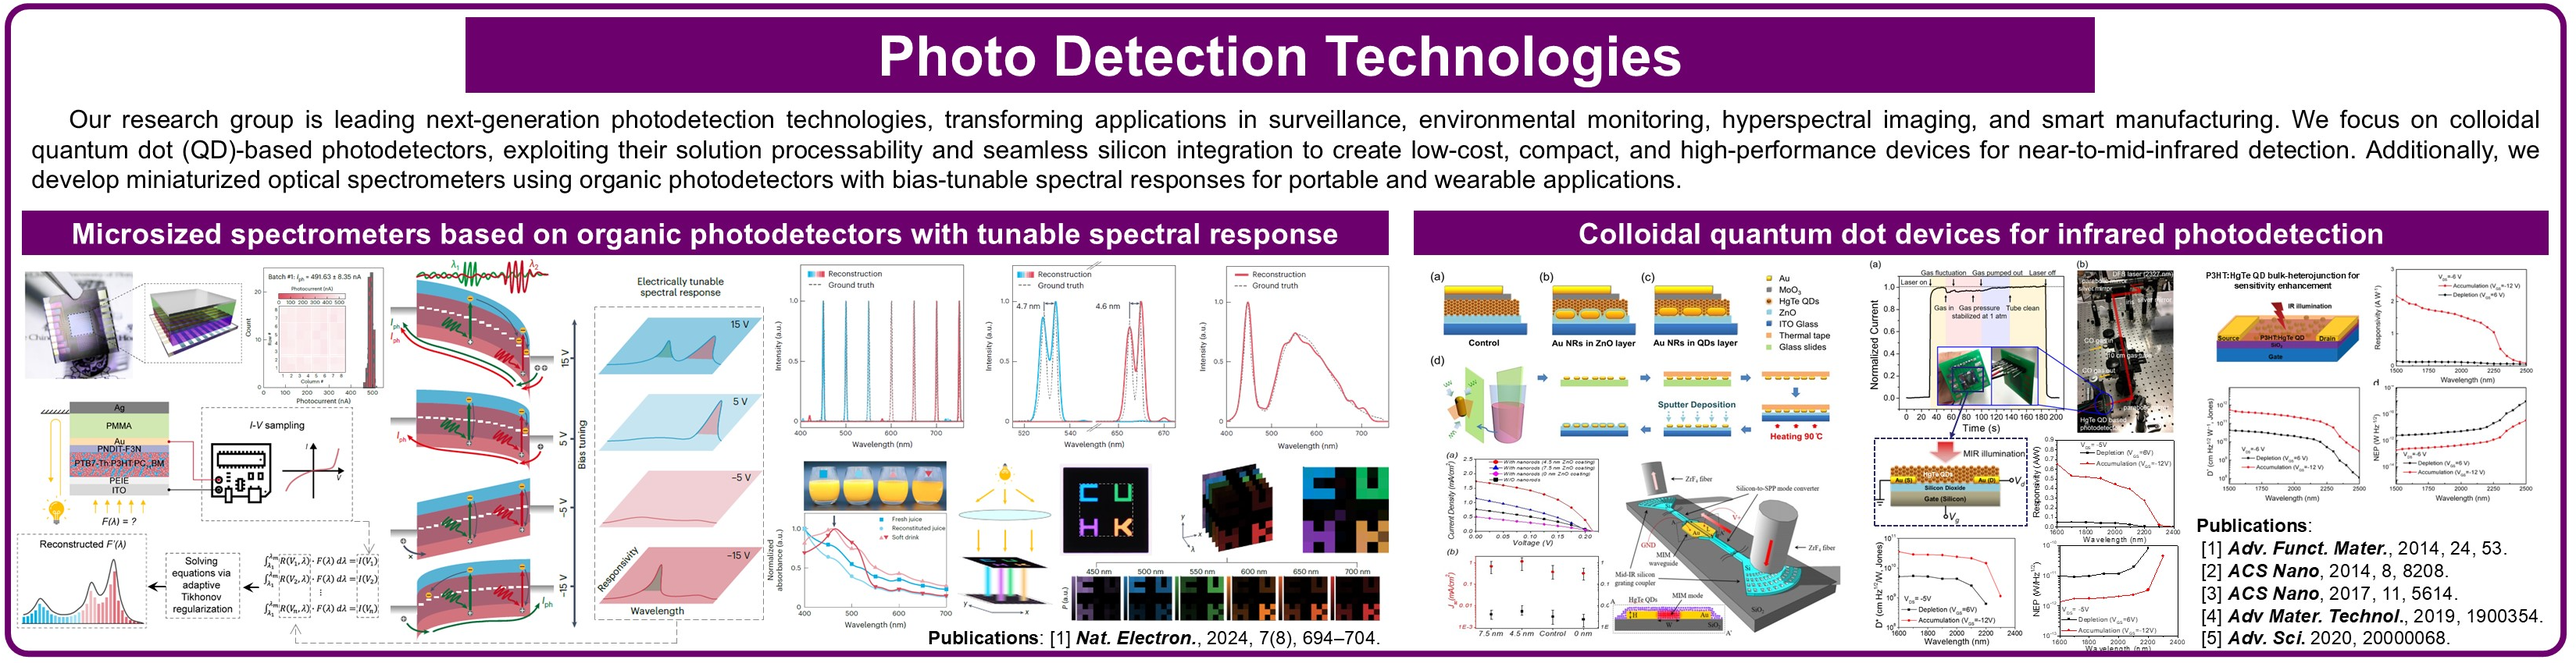
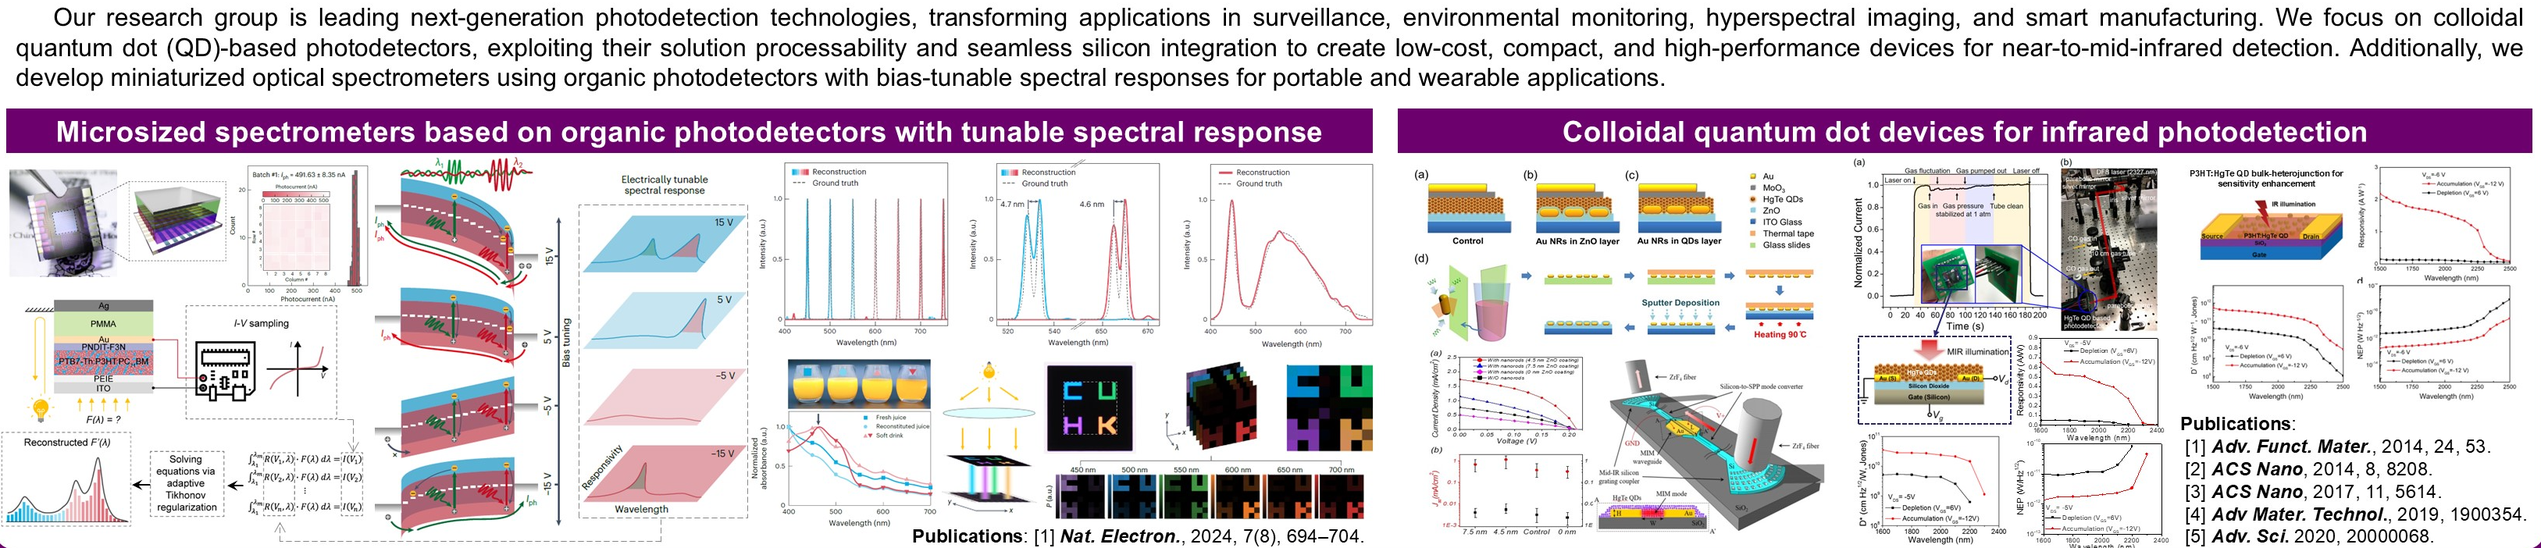
update poster

diff --git a/src/components/Research.js b/src/components/Research.js
@@ -50,12 +50,99 @@ export default class Research extends Component {
                             </ul>
                         </div>
                     </div>
-                        <div style={{display: 'flex', justifyContent: 'center', alignItems: 'center', gap: '16px', marginTop: '24px', flexWrap: 'wrap', flexDirection: 'column'}}>
-                            <img src="/img/poster/1.png" alt="poster1" style={{maxWidth: '80%', height: 'auto'}} />
-                            <img src="/img/poster/2.png" alt="poster2" style={{maxWidth: '80%', height: 'auto'}} />
-                            <img src="/img/poster/3.png" alt="poster3" style={{maxWidth: '80%', height: 'auto'}} />
-                            <img src="/img/poster/4.png" alt="poster4" style={{maxWidth: '80%', height: 'auto'}} />
+
+                <div
+                    style={{
+                        display: "flex",
+                        justifyContent: "center",
+                        alignItems: "center",
+                        gap: "16px",
+                        marginTop: "24px",
+                        flexWrap: "wrap",
+                        flexDirection: "column"
+                    }}
+                >
+                    {[
+                        {
+                            src: "/img/poster/1.png",
+                            alt: "poster1",
+                            title: "Photodetection Technologies"
+                        },
+                        {
+                            src: "/img/poster/2.png",
+                            alt: "poster2",
+                            title: "Biomedical Sensing Technologies"
+                        },
+                        {
+                            src: "/img/poster/3.png",
+                            alt: "poster3",
+                            title: "Organometal Halide Perovskite-based Optoelectronic and Photonic Devices"
+                        },
+                        {
+                            src: "/img/poster/4.png",
+                            alt: "poster4",
+                            title: "Organic Electrochemical Transceiver-based Therapeutic Wearables"
+                        }
+                    ].map((p) => (
+                        <div
+                            key={p.src}
+                            style={{
+                                width: "100%",
+                                display: "flex",
+                                justifyContent: "center"
+                            }}
+                        >
+                            <div
+                                style={{
+                                    width: "min(80%, 980px)",
+                                    border: "2px solid #6c006d",
+                                    borderRadius: "18px",
+                                    padding: "16px",
+                                    background: "rgba(255, 255, 255, 0.99)",
+                                    boxShadow: "0 12px 28px rgba(43, 10, 74, 0.03)"
+                                }}
+                            >
+                                <div
+                                    style={{
+                                        width: "100%",
+                                        display: "flex",
+                                        justifyContent: "center",
+                                        marginBottom: "11px"
+                                    }}
+                                >
+                                    <div
+                                        style={{
+                                            display: "inline-block",
+                                            padding: "10px 18px",
+                                            borderRadius: "12px",
+                                            fontFamily: "Roboto, system-ui, -apple-system, Segoe UI, Arial",
+                                            fontWeight: 800,
+                                            letterSpacing: "0.6px",
+                                            fontSize: "20px",
+                                            lineHeight: 1.2,
+                                            color: "#ffffff",
+                                            background: "linear-gradient(90deg, #6c006d 0%, #6c006d 100%)",
+                                            textAlign: "center"
+                                        }}
+                                    >
+                                        {p.title}
+                                    </div>
+                                </div>
+
+                                <img
+                                    src={p.src}
+                                    alt={p.alt}
+                                    style={{
+                                        width: "100%",
+                                        height: "auto",
+                                        display: "block",
+                                        borderRadius: "12px"
+                                    }}
+                                />
+                            </div>
                         </div>
+                    ))}
+                </div>
 
                 </div>
             </div>
